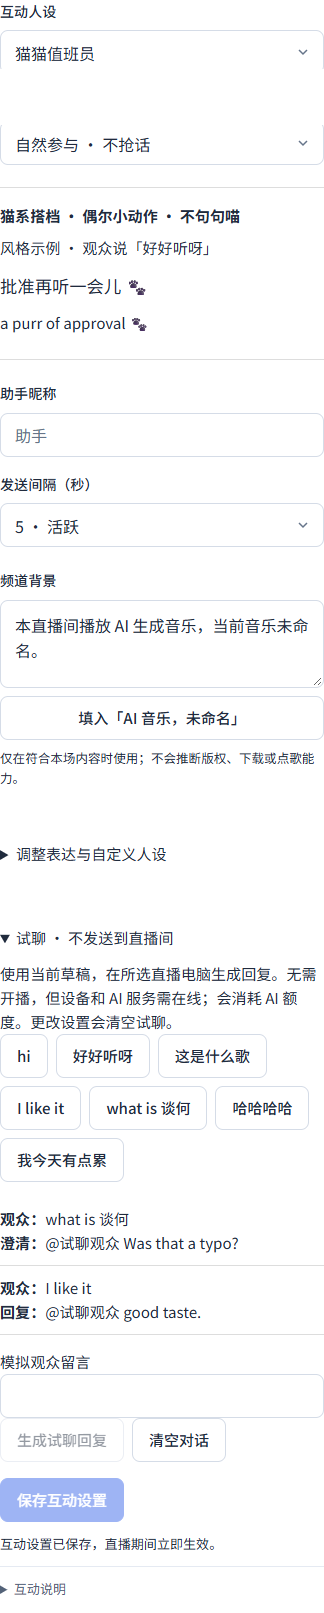
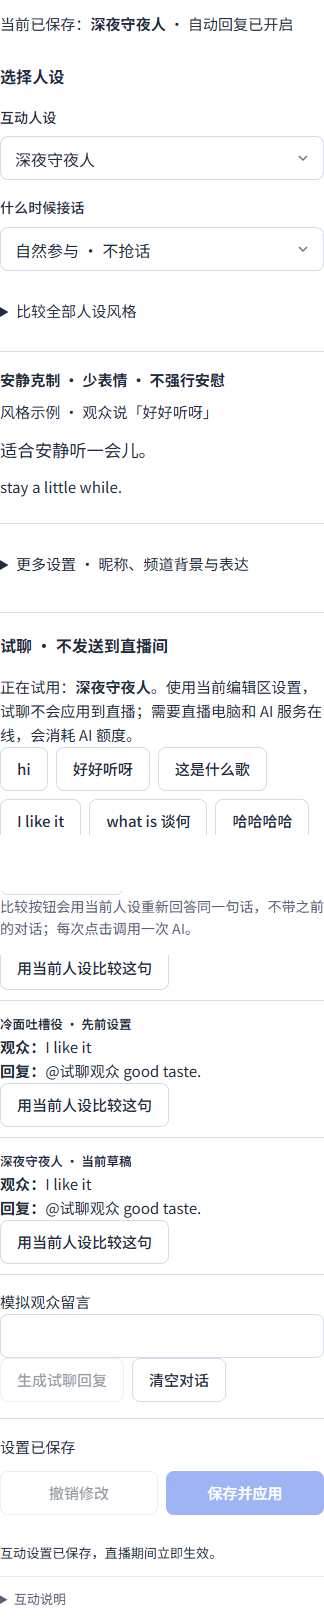
feat(live-chat)：完善人设选择试聊比较与应用并准备 0.1.17

diff --git a/src/app/components/live-chat-preview.tsx b/src/app/components/live-chat-preview.tsx
@@ -3,33 +3,39 @@
 import { useEffect, useId, useRef, useState } from "react";
 import type { ChatDecision, LiveChatConfig } from "@/shared/live-chat";
 import { api } from "../client-request";
+import { chatPersonas } from "@/shared/chat-personas";
 
 const samples = ["hi", "好好听呀", "这是什么歌", "I like it", "what is 谈何", "哈哈哈哈", "我今天有点累"];
-/** 父层以 key 隔离不同设置；切换设备或草稿时取消等待并丢弃迟到结果。 */
+/** 按设置快照隔离历史；更换人设保留结果，设备切换由父层 key 隔离。 */
 export default function LiveChatPreview({ config, instanceId, agentId, disabled }: { config: LiveChatConfig; instanceId: string; agentId?: string; disabled?: boolean }) {
   const inputId = useId();
   const [text, setText] = useState("");
-  const [turns, setTurns] = useState<{ text: string; decision: ChatDecision }[]>([]);
+  const [turns, setTurns] = useState<{ text: string; decision: ChatDecision; snapshot: string; persona: string }[]>([]);
   const [busy, setBusy] = useState(false);
   const [error, setError] = useState("");
   const abort = useRef<AbortController | null>(null);
+  const results = useRef<HTMLOListElement | null>(null);
+  useEffect(() => { results.current?.scrollTo({ top: results.current.scrollHeight }); }, [turns]);
   useEffect(() => () => abort.current?.abort(), []);
   /** 显式操作才调用付费模型；失败保留输入，不污染对话上下文。 */
-  async function preview() {
-    if (!text.trim() || busy || disabled) return;
+  async function preview(compare = false, message = text) {
+    if (!message.trim() || busy || disabled) return;
     const controller = new AbortController(); abort.current = controller; setBusy(true); setError("");
-    const sent = text.trim();
+    const sent = message.trim();
+    const snapshot = JSON.stringify(config), persona = chatPersonas[config.preset].name;
     try {
-      const decision = await api<ChatDecision>("/api/live-chat", { method: "POST", signal: controller.signal, timeoutMs: 60_000, headers: { "Content-Type": "application/json", "X-LivePilot": "1" }, body: JSON.stringify({ action: "preview", instanceId, ...(agentId ? { agentId } : {}), input: { config, text: sent, history: turns.slice(-8).map(turn => ({ text: turn.text, ...(turn.decision.action !== "skip" ? { reply: turn.decision.reply } : {}) })) } }) });
-      if (!controller.signal.aborted) { setTurns(previous => [...previous, { text: sent, decision }].slice(-8)); setText(""); }
+      const decision = await api<ChatDecision>("/api/live-chat", { method: "POST", signal: controller.signal, timeoutMs: 60_000, headers: { "Content-Type": "application/json", "X-LivePilot": "1" }, body: JSON.stringify({ action: "preview", instanceId, ...(agentId ? { agentId } : {}), input: { config, text: sent, history: (compare ? [] : turns.filter(turn => turn.snapshot === snapshot).slice(-8)).map(turn => ({ text: turn.text, ...(turn.decision.action !== "skip" ? { reply: turn.decision.reply } : {}) })) } }) });
+      if (!controller.signal.aborted) { setTurns(previous => [...previous, { text: sent, decision, snapshot, persona }].slice(-16)); setText(""); }
     } catch (e) { if (!controller.signal.aborted) setError(e instanceof Error ? e.message : "试聊失败，请重试。"); }
     finally { if (!controller.signal.aborted) setBusy(false); }
   }
-  return <details className="chat-preview"><summary>试聊 · 不发送到直播间</summary><p>使用当前草稿，在所选直播电脑生成回复。无需开播，但设备和 AI 服务需在线；会消耗 AI 额度。更改设置会清空试聊。</p>
+  return <section className="chat-preview" aria-label="试聊与比较"><h4>试聊 · 不发送到直播间</h4><p>正在试用：<strong>{chatPersonas[config.preset].name}</strong>。使用当前编辑区设置，试聊不会应用到直播；需要直播电脑和 AI 服务在线，会消耗 AI 额度。</p>
     <div className="chat-preview-samples">{samples.map(sample => <button type="button" key={sample} disabled={busy || disabled} onClick={() => setText(sample)}>{sample}</button>)}</div>
-    <ol className="chat-preview-turns" aria-live="polite">{turns.map((turn, index) => <li key={index}><p><strong>观众：</strong>{turn.text}</p><p><strong>{turn.decision.action === "clarify" ? "澄清：" : turn.decision.action === "skip" ? "跳过：" : "回复："}</strong>{turn.decision.action === "skip" ? "这句无需接话。" : turn.decision.reply}</p></li>)}</ol>
+    <p className="chat-preview-note">比较按钮会用当前人设重新回答同一句话，不带之前的对话；每次点击调用一次 AI。</p>
+    {!turns.length && <p className="chat-preview-empty">选一句常见留言试试。切换人设后，旧回复会留下来供你比较。</p>}
+    <ol ref={results} className="chat-preview-turns" aria-live="polite" tabIndex={0} aria-label="最近 16 条试聊结果">{turns.map((turn, index) => <li key={index}><small>{turn.persona} · {turn.snapshot === JSON.stringify(config) ? "当前草稿" : "先前设置"}</small><p><strong>观众：</strong>{turn.text}</p><p><strong>{turn.decision.action === "clarify" ? "澄清：" : turn.decision.action === "skip" ? "跳过：" : "回复："}</strong>{turn.decision.action === "skip" ? "这句无需接话。" : turn.decision.reply}</p><button type="button" disabled={busy || disabled} onClick={() => void preview(true, turn.text)}>用当前人设比较这句</button></li>)}</ol>
     <label htmlFor={inputId}>模拟观众留言</label><input id={inputId} maxLength={1000} value={text} disabled={busy || disabled} onChange={event => setText(event.target.value)} onKeyDown={event => { if (event.key === "Enter") { event.preventDefault(); void preview(); } }} />
     <div className="api-settings-actions"><button type="button" disabled={busy || disabled || !text.trim()} onClick={() => void preview()}>{busy ? "生成中…" : "生成试聊回复"}</button><button type="button" disabled={busy || !turns.length} onClick={() => { setTurns([]); setError(""); }}>清空对话</button></div>
     {error && <p role="alert">{error}</p>}
-  </details>;
+  </section>;
 }

diff --git a/src/app/components/live-chat-panel.tsx b/src/app/components/live-chat-panel.tsx
@@ -8,6 +8,7 @@ import { defaultLiveChatConfig, liveChatConfigSchema, type LiveChatConfig, type 
 import type { InstanceDescriptor } from "@/shared/types";
 import styles from "./live-chat-panel.module.css";
 import LiveChatSettings from "./live-chat-settings";
+import { chatPersonas } from "@/shared/chat-personas";
 
 const states: Record<LiveChatStatus["state"], string> = {
   disabled: "已关闭", needs_key: "AI 服务未就绪", waiting_live: "等待直播", connecting: "连接聊天中",
@@ -26,6 +27,7 @@ export default function LiveChatPanel({ instance, status, supported, stale, onRe
   const [recordsExpanded, setRecordsExpanded] = useState<boolean>();
   const [editing, setEditing] = useState(false);
   const [settingsSaving, setSettingsSaving] = useState(false);
+  const [editorOpened, setEditorOpened] = useState(false);
   const current = savedStatus && (!status || savedStatus.updatedAt >= status.updatedAt) ? savedStatus : status;
   const recordsOpen = recordsExpanded ?? current?.state === "running";
   const canRequest = supported && !stale;
@@ -101,13 +103,14 @@ export default function LiveChatPanel({ instance, status, supported, stale, onRe
         {!stale && current?.recoveryAction === "authorize" && <div className={styles.actions}><button type="button" className="btn-ghost" onClick={openChannelSettings}>检查频道授权</button></div>}
         {!stale && current?.state === "needs_attention" && <div className={styles.actions}><button type="button" className="btn-secondary" disabled={locked || !current.config.enabled} onClick={() => void configure(current.config)}>重试互动</button><span className={styles.hint}>{current.recoveryAction === "check_storage" ? "先在直播电脑检查磁盘空间与目录权限。" : current.recoveryAction === "contact_admin" ? "请检查账号 AI 服务配置或余额后重试。" : "处理上方问题后，重新连接互动。"}</span></div>}
       </div>
+      {current && <p className={styles.hint}>{chatPersonas[current.config.preset].name} · {current.config.replyMode === "natural" ? "自然参与" : current.config.replyMode === "addressed" ? "被叫才回" : "尽量回应"}</p>}
       <div className={styles.toolbar}>
         <button type="button" className="btn-ghost" aria-expanded={recordsOpen} aria-controls={`chat-records-${id}`} onClick={() => setRecordsExpanded(!recordsOpen)}>活动记录{stale ? " · 上次记录" : ""}<svg width="14" height="14" viewBox="0 0 24 24" fill="none" stroke="currentColor" strokeWidth="1.8" aria-hidden="true" style={{ transform: recordsOpen ? "rotate(90deg)" : undefined }}><path d="m9 5 7 7-7 7" /></svg></button>
         <ApiSettingsButton instance={instance} section="ai" disabled={!!working}>AI 服务设置</ApiSettingsButton>
-        <button type="button" className="btn-ghost" disabled={!!working || settingsSaving || stale} aria-expanded={editing} aria-controls={`chat-editor-${id}`} onClick={() => setEditing(!editing)}>人设与试聊</button>
+        <button type="button" className="btn-ghost" disabled={!!working || settingsSaving || stale} aria-expanded={editing} aria-controls={`chat-editor-${id}`} onClick={() => { setEditorOpened(true); setEditing(!editing); }}>人设与试聊</button>
         <button type="button" className="btn-ghost" disabled={!!working} onClick={() => void readStatus()}>{working === "read" ? "读取中…" : stale ? "刷新设备状态" : "刷新互动状态"}</button>
       </div>
-      {editing && <div id={`chat-editor-${id}`}><LiveChatSettings key={id} instance={instance} offline={stale || !!working} onSaving={setSettingsSaving} /></div>}
+      {(editing || editorOpened) && <div hidden={!editing} id={`chat-editor-${id}`}><LiveChatSettings key={id} instance={instance} effectiveStatus={current} offline={stale || !!working} onSaving={setSettingsSaving} /></div>}
       <div className={styles.history} id={`chat-records-${id}`} hidden={!recordsOpen}>
         <dl className={styles.counts} aria-label="互动统计"><div><dt>已发送</dt><dd>{stale ? "—" : current?.sent ?? "—"}</dd></div><div><dt>已跳过</dt><dd>{stale ? "—" : current?.skipped ?? "—"}</dd></div><div><dt>排队中</dt><dd>{stale ? "—" : current?.queued ?? "—"}</dd></div></dl>
         {current?.recent.length ? <ol>{current.recent.slice(-30).reverse().map(entry => <li key={entry.id}><div className={styles.entryHeading}><strong>{entry.author || "观众"}</strong><span>{entryStates[entry.status]}</span></div><p>{entry.text}</p>{entry.reply && <p className={styles.reply}>{entry.reply}</p>}{entry.reason && <p className={styles.hint}>{entry.reason}</p>}</li>)}</ol> : <p className={styles.hint}>还没有互动记录；启用后只回复新留言。</p>}

diff --git a/src/app/components/live-chat-fields.tsx b/src/app/components/live-chat-fields.tsx
@@ -16,13 +16,15 @@ export default function LiveChatFields({ id, value, disabled, onChange: onCommit
         <div className="field-group"><label htmlFor={`chat-persona-${id}`}>互动人设</label><select id={`chat-persona-${id}`} value={value.preset} onChange={e => onChange({ ...value, preset: e.target.value as ChatPersona })}>{Object.entries(chatPersonas).map(([key, item]) => <option key={key} value={key}>{item.name}</option>)}</select></div>
         <div className="field-group"><label htmlFor={`chat-mode-${id}`}>什么时候接话</label><select id={`chat-mode-${id}`} value={value.replyMode || "responsive"} onChange={e => onChange({ ...value, replyMode: e.target.value as LiveChatConfig["replyMode"] })}><option value="responsive">尽量回应 · 有效留言优先</option><option value="natural">自然参与 · 不抢话</option><option value="addressed">被叫才回 · 昵称或明确对话</option></select></div>
       </div>
+      <details className="chat-persona-directory"><summary>比较全部人设风格</summary><p>以下是风格示例，实际回复请在试聊中比较。</p>{Object.entries(chatPersonas).map(([key, item]) => <button type="button" key={key} aria-pressed={value.preset === key} onClick={() => onChange({ ...value, preset: key as ChatPersona })}><strong>{item.name}</strong><span>{item.description}</span><q>{item.example}</q></button>)}</details>
       <div className="chat-persona-sample" aria-live="polite"><strong>{persona.description}</strong><p>风格示例 · 观众说「好好听呀」</p><blockquote>{persona.example}</blockquote><p lang="en">{persona.english}</p></div>
+      <details className="chat-expression" open={value.preset === "custom" ? true : undefined}><summary>更多设置 · 昵称、频道背景与表达</summary>
       <div className="live-chat-field-grid">
         <div className="field-group"><label htmlFor={`chat-nickname-${id}`}>助手昵称</label><input id={`chat-nickname-${id}`} maxLength={40} value={value.nickname || ""} placeholder="助手" onChange={e => onChange({ ...value, nickname: e.target.value })} /></div>
         <div className="field-group"><label htmlFor={`chat-interval-${id}`}>发送间隔（秒）</label><select id={`chat-interval-${id}`} value={value.intervalSeconds} onChange={e => onChange({ ...value, intervalSeconds: Number(e.target.value) })}>{Array.from({ length: 56 }, (_, index) => index + 5).map(seconds => <option key={seconds} value={seconds}>{seconds}{seconds === 5 ? " · 活跃" : seconds === 15 ? " · 适中" : seconds === 30 ? " · 安静" : ""}</option>)}</select></div>
       </div>
       <div className="field-group"><label htmlFor={`chat-facts-${id}`}>频道背景</label><textarea id={`chat-facts-${id}`} rows={2} maxLength={1500} value={value.channelFacts || ""} onChange={e => onChange({ ...value, channelFacts: e.target.value })} placeholder="只填已确认事实，例如音乐来源、是否命名。留空时不会猜测。" /><button type="button" onClick={() => onChange({ ...value, channelFacts: "本直播间播放 AI 生成音乐，当前音乐未命名。" })}>填入「AI 音乐，未命名」</button><small>仅在符合本场内容时使用；不会推断版权、下载或点歌能力。</small></div>
-      <details className="chat-expression"><summary>调整表达与自定义人设</summary><div className="live-chat-field-grid">
+      <div className="live-chat-field-grid">
         <div className="field-group"><label htmlFor={`chat-length-${id}`}>回复长短</label><select id={`chat-length-${id}`} value={value.verbosity || "brief"} onChange={e => onChange({ ...value, verbosity: e.target.value as LiveChatConfig["verbosity"] })}><option value="brief">简短接话</option><option value="balanced">需要时多说一句</option></select></div>
         <div className="field-group"><label htmlFor={`chat-humor-${id}`}>幽默程度</label><select id={`chat-humor-${id}`} value={value.humor || ""} onChange={e => onChange({ ...value, humor: (e.target.value || undefined) as LiveChatConfig["humor"] })}><option value="">跟随人设</option><option value="none">不用玩笑</option><option value="light">偶尔接梗</option><option value="frequent">更有趣一些</option></select></div>
         <div className="field-group"><label htmlFor={`chat-emoji-${id}`}>表情</label><select id={`chat-emoji-${id}`} value={value.emoji || ""} onChange={e => onChange({ ...value, emoji: (e.target.value || undefined) as LiveChatConfig["emoji"] })}><option value="">跟随人设</option><option value="none">不用表情</option><option value="occasional">偶尔使用</option></select></div>

diff --git a/src/app/components/live-chat-settings.tsx b/src/app/components/live-chat-settings.tsx
@@ -8,9 +8,10 @@ import { api } from "../client-request";
 import styles from "./live-chat-panel.module.css";
 import LiveChatFields from "./live-chat-fields";
 import LiveChatPreview from "./live-chat-preview";
+import { chatPersonas } from "@/shared/chat-personas";
 
 /** 读取失败不提供虚构的默认值；目标切换由父组件重新挂载以隔离草稿和异步结果。 */
-export default function LiveChatSettings({ instance, offline, onSaving }: { instance: InstanceDescriptor; offline: boolean; onSaving: (value: boolean) => void }) {
+export default function LiveChatSettings({ instance, offline, onSaving, effectiveStatus }: { effectiveStatus?: LiveChatStatus; instance: InstanceDescriptor; offline: boolean; onSaving: (value: boolean) => void }) {
   const [status, setStatus] = useState<LiveChatStatus>();
   const [draft, setDraft] = useState<LiveChatConfig>();
   const [loading, setLoading] = useState(true);
@@ -28,12 +29,14 @@ export default function LiveChatSettings({ instance, offline, onSaving }: { inst
       .finally(() => { if (!abort.signal.aborted) setLoading(false); });
     return () => abort.abort();
   }, [id, agentId, offline, revision]);
-  const config = draft || status?.config;
+  const latestStatus = effectiveStatus && (!status || effectiveStatus.updatedAt > status.updatedAt) ? effectiveStatus : status;
+  const config = draft || latestStatus?.config;
+  const dirty = !!draft && JSON.stringify(draft) !== JSON.stringify(latestStatus?.config);
   /** 显式保存已编辑字段；成功后通知原运行面板，避免它继续使用旧配置执行启停。 */
   async function save(event: FormEvent<HTMLFormElement>) {
     event.preventDefault();
     if (saving || !config || !status || offline) return;
-    const parsed = liveChatConfigSchema.safeParse({ ...config, enabled: status.config.enabled, intervalSeconds: config.intervalSeconds });
+    const parsed = liveChatConfigSchema.safeParse({ ...config, enabled: latestStatus?.config.enabled ?? status.config.enabled, intervalSeconds: config.intervalSeconds });
     if (!parsed.success) { setError("发送间隔请输入 5–60 的整数，人设描述最多 2000 字符。"); return; }
     setSaving(true); onSaving(true); setError(""); setMessage("");
     try {
@@ -45,9 +48,12 @@ export default function LiveChatSettings({ instance, offline, onSaving }: { inst
   }
   return <section className="api-service-section" aria-label="互动人设与频率" aria-busy={loading && !offline || saving}>
     {offline ? <p role="status">直播电脑离线，暂时无法读取或修改互动偏好。</p> : loading ? <p role="status">正在读取互动设置…</p> : config && <form className={styles.form + " api-chat-form"} onSubmit={event => void save(event)}>
-      <LiveChatFields id={`settings-${agentId || "local"}-${id}`} value={config} hideEnable disabled={saving} onChange={setDraft} />
-      <LiveChatPreview key={JSON.stringify(config)} config={config} instanceId={id} agentId={agentId} disabled={saving || offline} />
-      <div className="api-settings-actions"><button className="btn-primary" type="submit" disabled={saving || !draft}>{saving ? "保存中…" : "保存互动设置"}</button></div>
+      <p className="chat-effective">当前已保存：<strong>{latestStatus && chatPersonas[latestStatus.config.preset].name}</strong> · {latestStatus?.config.enabled ? "自动回复已开启" : "自动回复已关闭"}</p>
+      <div className="chat-workspace"><div><h4>选择人设</h4>
+      <LiveChatFields id={`settings-${agentId || "local"}-${id}`} value={config} hideEnable disabled={saving} onChange={next => { setDraft(next); setMessage(""); }} />
+      </div>
+      <LiveChatPreview key={`${agentId || "local"}-${id}`} config={config} instanceId={id} agentId={agentId} disabled={saving || offline} />
+      </div><div className="chat-apply-bar"><span role="status">{dirty ? "未保存修改 · 试聊不会自动应用" : "设置已保存"}</span><div className="api-settings-actions"><button type="button" disabled={saving || !dirty} onClick={() => { setDraft(undefined); setMessage(""); }}>撤销修改</button><button className="btn-primary" type="submit" disabled={saving || !dirty}>{saving ? "正在应用…" : "保存并应用"}</button></div></div>
     </form>}
     {error && <div role="alert"><p>{error}</p>{!offline && <button type="button" disabled={saving || loading} onClick={() => { setError(""); setLoading(true); setRevision(value => value + 1); }}>重新读取互动设置</button>}</div>}
     {message && <p role="status" className="api-settings-success">{message}</p>}

diff --git a/src/app/components/live-chat-fields.css b/src/app/components/live-chat-fields.css
@@ -15,3 +15,30 @@
 .chat-preview-turns li { padding-block: 10px; border-bottom: 1px solid var(--border, #ddd); }
 .chat-preview input { width: 100%; min-width: 0; }
 @media (max-width: 600px) { .live-chat-field-grid { grid-template-columns: 1fr; } }
+
+/* 人设工作区在宽屏并排比较，窄屏顺序阅读；应用条只占自己的布局空间。 */
+.chat-workspace { display: grid; grid-template-columns: minmax(0, 1fr) minmax(0, 1fr); gap: 28px; align-items: start; }
+.chat-workspace > * { min-width: 0; }
+.chat-workspace h4 { margin: 0 0 16px; font-size: 1rem; }
+.chat-workspace .chat-preview { margin-top: 0; border-left: 1px solid var(--border, #ddd); padding-left: 28px; }
+.chat-effective { margin: 0; padding-block: 12px; }
+.chat-persona-directory summary { cursor: pointer; min-height: 44px; padding-block: 12px; }
+.chat-persona-directory button { display: flex; flex-direction: column; align-items: start; gap: 6px; text-align: left; width: 100%; padding: 12px; margin-block: 6px; white-space: normal; }
+.chat-persona-directory button[aria-pressed="true"] { outline: 2px solid var(--accent, #32695f); outline-offset: -2px; }
+.chat-persona-directory span, .chat-persona-directory q { font-size: .875rem; }
+.chat-apply-bar { position: sticky; bottom: 0; z-index: 2; display: flex; flex-wrap: wrap; align-items: center; justify-content: space-between; gap: 12px; padding: 16px 0 max(16px, env(safe-area-inset-bottom)); background: var(--bg-card, #fff); border-top: 1px solid var(--border, #ddd); }
+.chat-preview-empty { padding-block: 20px; color: var(--text-secondary, #555); }
+.chat-preview-turns { scroll-padding-block: 12px; }
+.chat-preview-turns small { font-weight: 600; }
+.chat-preview .api-settings-actions { flex-wrap: wrap; }
+@media (max-width: 900px) {
+  .chat-workspace { grid-template-columns: 1fr; gap: 24px; }
+  .chat-workspace .chat-preview { border-left: 0; border-top: 1px solid var(--border, #ddd); padding: 20px 0 0; }
+  .chat-apply-bar { flex-direction: column; align-items: stretch; }
+  .chat-apply-bar .api-settings-actions { display: flex; }
+  .chat-apply-bar button { flex: 1; min-height: 44px; }
+}
+
+.chat-workspace .live-chat-fields { gap: 16px; }
+.chat-workspace .chat-expression { margin-top: 0; }
+.chat-preview-note { font-size: .875rem; color: var(--text-secondary, #555); }

diff --git a/src/app/components/broadcast-settings.tsx b/src/app/components/broadcast-settings.tsx
@@ -85,7 +85,7 @@ export default function BroadcastSettings({ id, instance, value, disabled, chann
         <BroadcastCopyFields id={id} value={details} disabled={locked} onChange={onChange} />
         {cover("primary")}
       </section>
-      <section className="workflow-section" aria-labelledby={`chat-heading-${id}`}><div className="field-label-row"><h3 id={`chat-heading-${id}`}>AI 观众互动</h3><ApiSettingsButton disabled={locked}>AI 服务设置</ApiSettingsButton></div><LiveChatFields id={id} value={details.liveChat || defaultLiveChatConfig} disabled={locked} onChange={liveChat => onChange({ ...details, liveChat })} /><LiveChatPreview key={JSON.stringify(details.liveChat)} config={details.liveChat || defaultLiveChatConfig} instanceId={instance.id} agentId={instance.agentId} disabled={locked} /></section>
+      <section className="workflow-section" aria-labelledby={`chat-heading-${id}`}><div className="field-label-row"><h3 id={`chat-heading-${id}`}>AI 观众互动</h3><ApiSettingsButton disabled={locked}>AI 服务设置</ApiSettingsButton></div><LiveChatFields id={id} value={details.liveChat || defaultLiveChatConfig} disabled={locked} onChange={liveChat => onChange({ ...details, liveChat })} /><LiveChatPreview key={`${instance.agentId || "local"}-${instance.id}`} config={details.liveChat || defaultLiveChatConfig} instanceId={instance.id} agentId={instance.agentId} disabled={locked} /></section>
       <details className="workflow-complete"><summary><span>完整配置</span><span className="workflow-summary">{privacy} · {details.madeForKids ? "面向儿童" : "不面向儿童"} · 原声{videoAudio ? "开启" : "关闭"}</span></summary>
         <div className="workflow-complete-body">
           <p className="field-hint">本场开播使用以下配置，修改会同步到前面的输入。</p>

diff --git a/docs/直播聊天整改.md b/docs/直播聊天整改.md
@@ -7,7 +7,7 @@
 
 频道背景必须明确填写，提供「AI 音乐，未命名」便捷填入。不能把用户当前频道的事实自动推广到其他频道。无需认歌，也不编造曲名、作者或版权。
 
-运行面板的「人设与试聊」可在直播期间编辑并保存。试聊使用当前草稿，支持八轮手动对话，结果区分回复、澄清与跳过。更改草稿重置预览，失败保留输入。试聊需要在线 Agent 和 AI 额度，但无需直播或 YouTube 发送授权；它不会发送 YouTube 聊天。
+运行面板的「人设与试聊」可在直播期间编辑并保存。试聊使用当前草稿，保留最近 16 条结果，同一草稿最多携带八轮对话，结果区分回复、澄清与跳过。更改草稿保留预览，以人设和设置快照标注结果；「用当前人设比较这句」直接重新回答原留言，不带上下文。失败保留输入。试聊需要在线 Agent 和 AI 额度，但无需直播或 YouTube 发送授权；它不会发送 YouTube 聊天。
 
 ## 设计取舍
 
@@ -56,3 +56,7 @@
 - Impeccable 机械检查无发现；人工检查了两种尺寸。以下元素截图仅在捕获时隐藏面板外悬浮页头、跳转链接和移动导航按钮，不代表更改它们的实际行为。
 - [桌面设置与试聊（模拟数据）](images/chat-conversation/desktop.png) · [390px 手机（模拟数据）](images/chat-conversation/mobile.png)
 - 两轮真实模型评估各 23 个合成场景；未宣称自动成功率，人工观察与局限见上文。
+
+## 选择、试聊、比较与应用
+
+桌面并排显示人设与试聊，手机按顺序展示。更多设置收纳昵称、频率、频道背景和表达；「比较全部人设风格」展示九种风格。底部显示未保存状态，保存并应用后才修改运行偏好；撤销恢复已保存设置。收起编辑区仍保留本页草稿和结果，离开页面不保留。

diff --git a/docs/desktop/0.1.17发布.md b/docs/desktop/0.1.17发布.md
@@ -1,0 +1,10 @@
+<!-- 文件用途：记录 0.1.17 互动人设与试聊工作区的发行证据与边界。 -->
+# LiveNest 0.1.17
+
+状态：准备发布，Cloud 与客户端部署完成后补记实际结果。
+
+九种人设、场景接话和 Agent 试聊；桌面与手机支持选择、试聊、比较、保存并应用。试聊保留最近 16 条带人设标识的结果，比较可不带上下文。底部明确草稿状态；收起编辑区保留本页草稿。
+
+本地 npm run verify 通过 116 个测试文件、1101 项测试和 8 项部署检查。浏览器与线上部署证据将在完成后补记。没有测试真实开播、OAuth 或向 YouTube 发消息。
+
+需要升级 Agent 才能执行新接话策略和试聊。升级保留账号、配对、实例、OBS 与频道授权；正在直播的电脑不强制重启。
